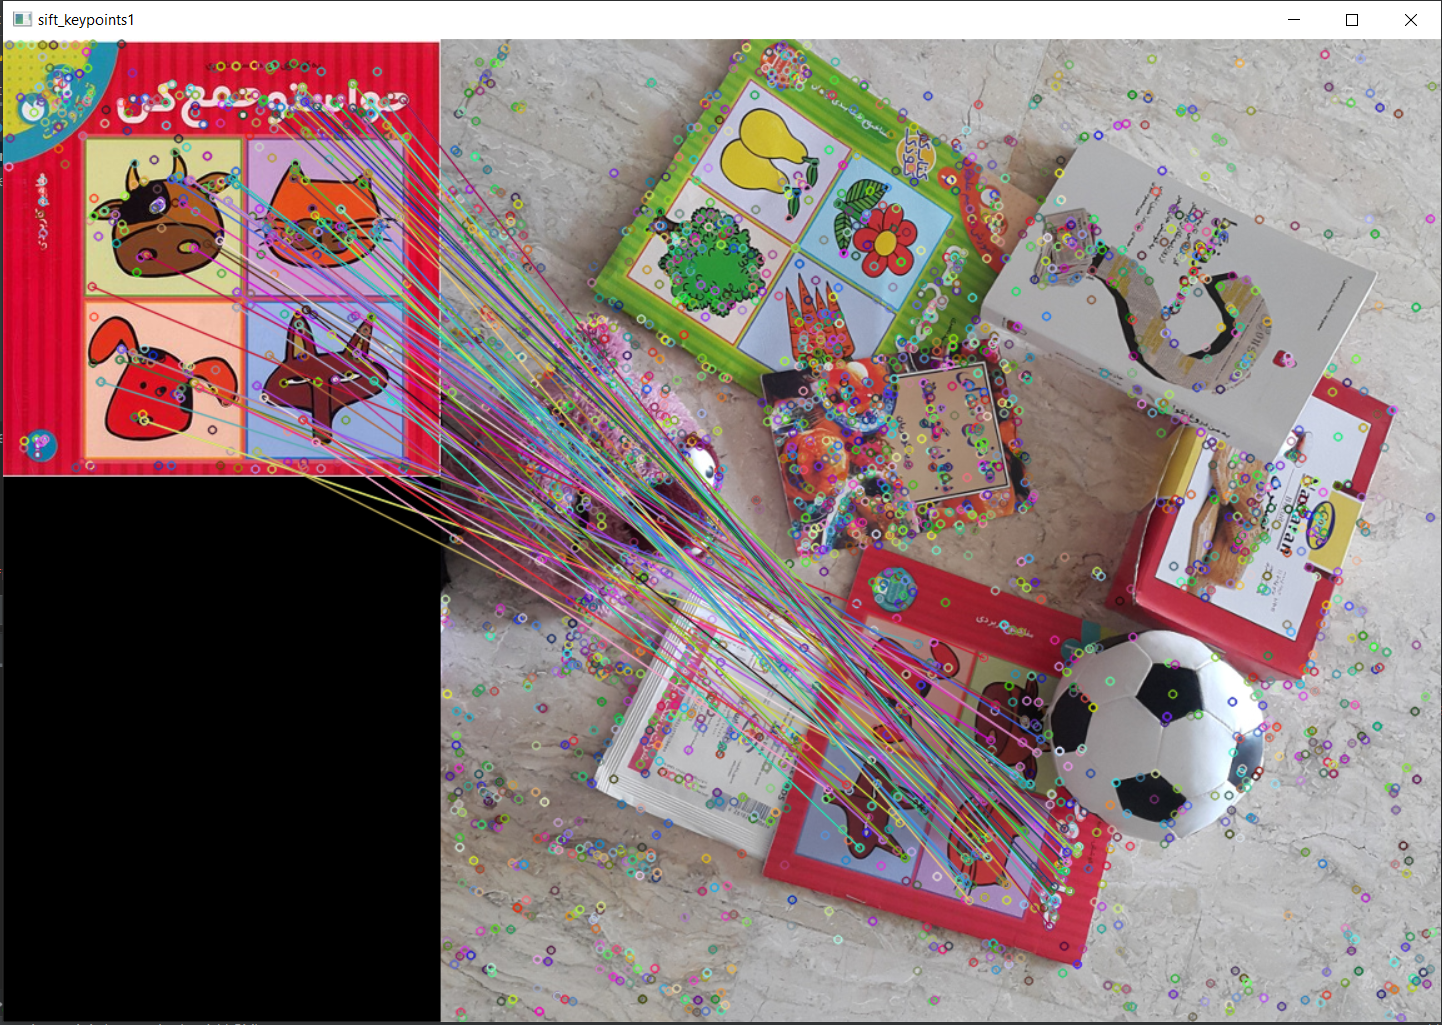
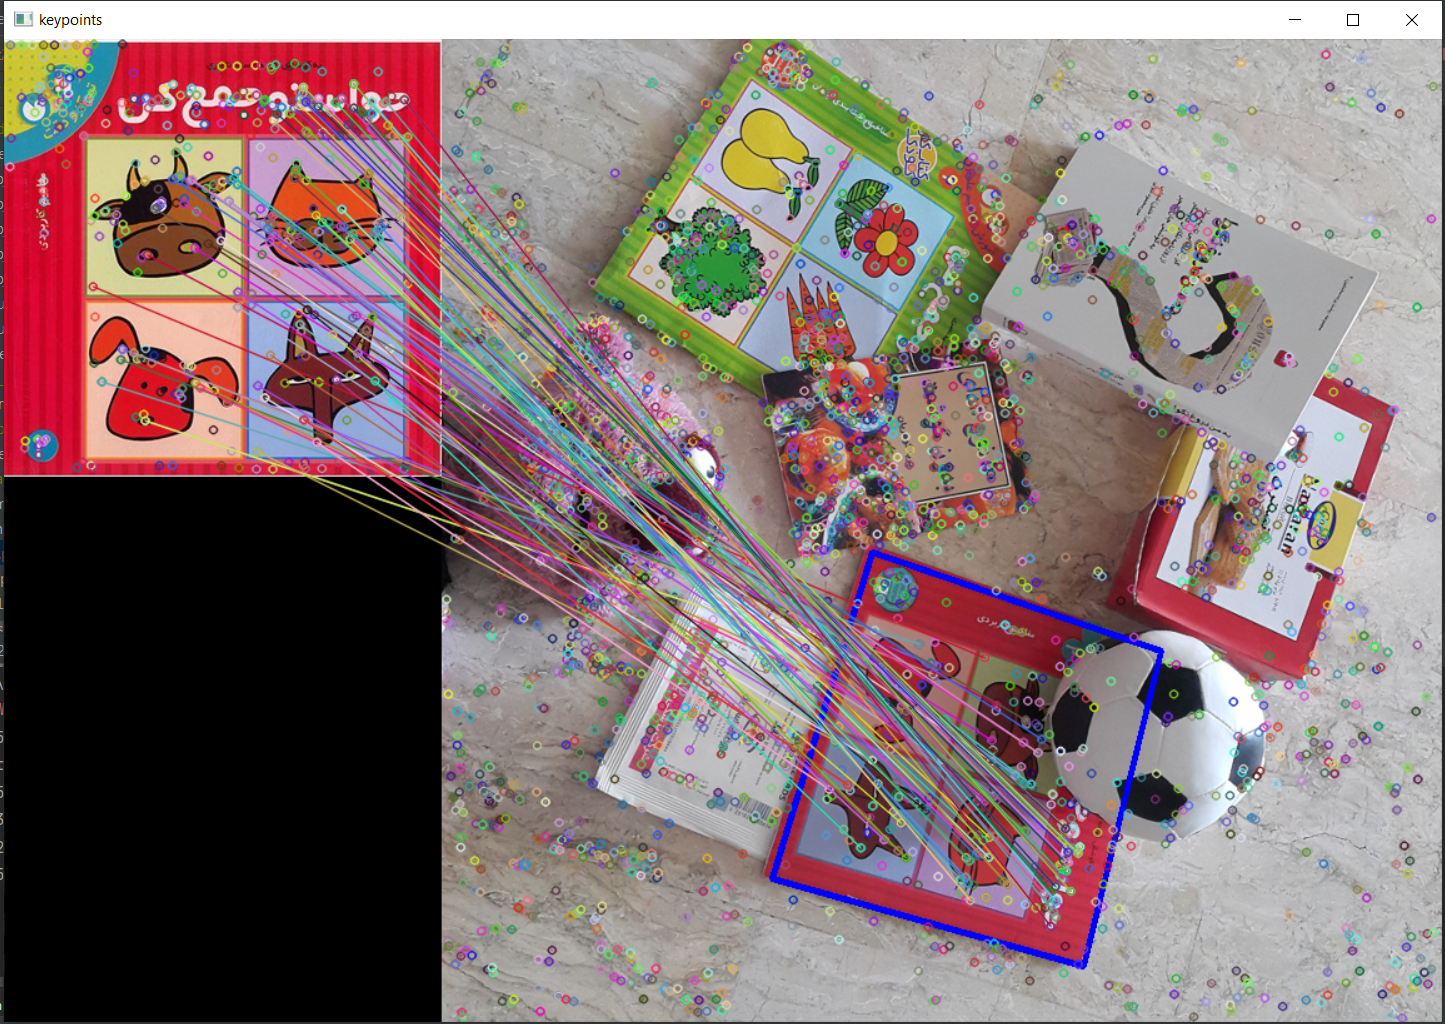
ADD Another image of the outputs and update readme.md

diff --git a/sift_match_ransac.py b/sift_match_ransac.py
@@ -1,58 +1,73 @@
 import numpy as np
 import cv2
-OBJ_ADDRESS = "./Images of Objects and the Scene/obj3.jpg"
+import glob
+
+OBJ_ADDRESS = "./Images of Objects and the Scene/"
 SCENE_ADDRESS = "./Images of Objects and the Scene/scene.jpg"
-
-I1 = cv2.imread(OBJ_ADDRESS)
-G1 = cv2.cvtColor(I1, cv2.COLOR_BGR2GRAY)
-
-I2 = cv2.imread(SCENE_ADDRESS)
-G2 = cv2.cvtColor(I2, cv2.COLOR_BGR2GRAY)
 
 sift = cv2.xfeatures2d.SIFT_create() # opencv 3
 # use "sift = cv2.SIFT()" if the above fails
 
-# detect keypoints and compute their descriptor vectors
-keypoints1, desc1 = sift.detectAndCompute(G1, None); # opencv 3
+I2 = cv2.imread(SCENE_ADDRESS)
+G2 = cv2.cvtColor(I2, cv2.COLOR_BGR2GRAY)
 keypoints2, desc2 = sift.detectAndCompute(G2, None); # opencv 3
 
-print("No. of keypoints1 =", len(keypoints1))
-print("No. of keypoints2 =", len(keypoints2))
+fnames = glob.glob(OBJ_ADDRESS + 'obj?.jpg')
+fnames.sort()
+for fname in fnames:
 
-print("Descriptors1.shape =", desc1.shape)
-print("Descriptors2.shape =", desc2.shape)
+    I1 = cv2.imread(fname)
+    G1 = cv2.cvtColor(I1,cv2.COLOR_BGR2GRAY)
+    keypoints1, desc1 = sift.detectAndCompute(G1, None); # opencv 3
+    
+    # brute-force matching
+    bf = cv2.BFMatcher()
 
-# stop here!!
-# exit() # comment this line out to move on!
+    # for each descriptor in desc1 find its
+    # two nearest neighbours in desc2
+    matches = bf.knnMatch(desc1,desc2, k=2)
 
-# brute-force matching
-bf = cv2.BFMatcher()
+    # distance ratio test
+    alpha = 0.75
+    good_matches = [m1 for m1,m2 in matches if m1.distance < alpha *m2.distance]
+    
+    points1 = [keypoints1[m.queryIdx].pt for m in good_matches]
+    points1 = np.array(points1,dtype=np.float32)
 
-# for each descriptor in desc1 find its
-# two nearest neighbours in desc2
-matches = bf.knnMatch(desc1,desc2, k=2)
+    points2 = [keypoints2[m.trainIdx].pt for m in good_matches]
+    points2 = np.array(points2,dtype=np.float32)
 
-good_matches = []
-alpha = 0.75
-for m1,m2 in matches:
-    # m1 is the best match
-    # m2 is the second best match
-    if m1.distance < alpha * m2.distance:
-        good_matches.append(m1)
+    H, mask = cv2.findHomography(points1, points2, cv2.RANSAC,5.0)
 
-# apply RANSAC
-points1 = [keypoints1[m.queryIdx].pt for m in good_matches]
-points1 = np.array(points1,dtype=np.float32)
+    # H = np.eye(3,dtype=np.float32) # this needs to be changed
 
-points2 = [keypoints2[m.trainIdx].pt for m in good_matches]
-points2 = np.array(points2,dtype=np.float32)
-H, mask = cv2.findHomography(points1, points2, cv2.RANSAC,5.0) # 5 pixels margin
-mask = mask.ravel().tolist()
-# print(mask)
 
-good_matches = [m for m,msk in zip(good_matches,mask) if msk == 1]
+    mask = mask.ravel().tolist()
+    # print(mask)
 
-I = cv2.drawMatches(I1,keypoints1,I2,keypoints2, good_matches, None)
+    good_matches = [m for m,msk in zip(good_matches,mask) if msk == 1]
 
-cv2.imshow('sift_keypoints1',I)
-cv2.waitKey(0)
+    print(I1.shape)
+    pts = np.float32([ [0,0],
+                       [0,I1.shape[0]],
+                       [I1.shape[1],I1.shape[0]],
+                       [I1.shape[1],0] ]).reshape(-1,1,2)
+    
+    dst = cv2.perspectiveTransform(pts,H).reshape(4,2)
+   
+    J = I2.copy()
+    print("dst is:")
+    dst = dst.astype(int)
+    print(dst)
+    cv2.line(J, (dst[0,0], dst[0,1]), (dst[1,0], dst[1,1]), (255,0,0),3)
+    cv2.line(J, (dst[1,0], dst[1,1]), (dst[2,0], dst[2,1]), (255,0,0),3)
+    cv2.line(J, (dst[2,0], dst[2,1]), (dst[3,0], dst[3,1]), (255,0,0),3)
+    cv2.line(J, (dst[3,0], dst[3,1]), (dst[0,0], dst[0,1]), (255,0,0),3)
+
+
+    I = cv2.drawMatches(I1,keypoints1,J,keypoints2,good_matches, None)
+
+    cv2.imshow('keypoints',I)
+
+    if cv2.waitKey() & 0xFF == ord('q'):
+        break
